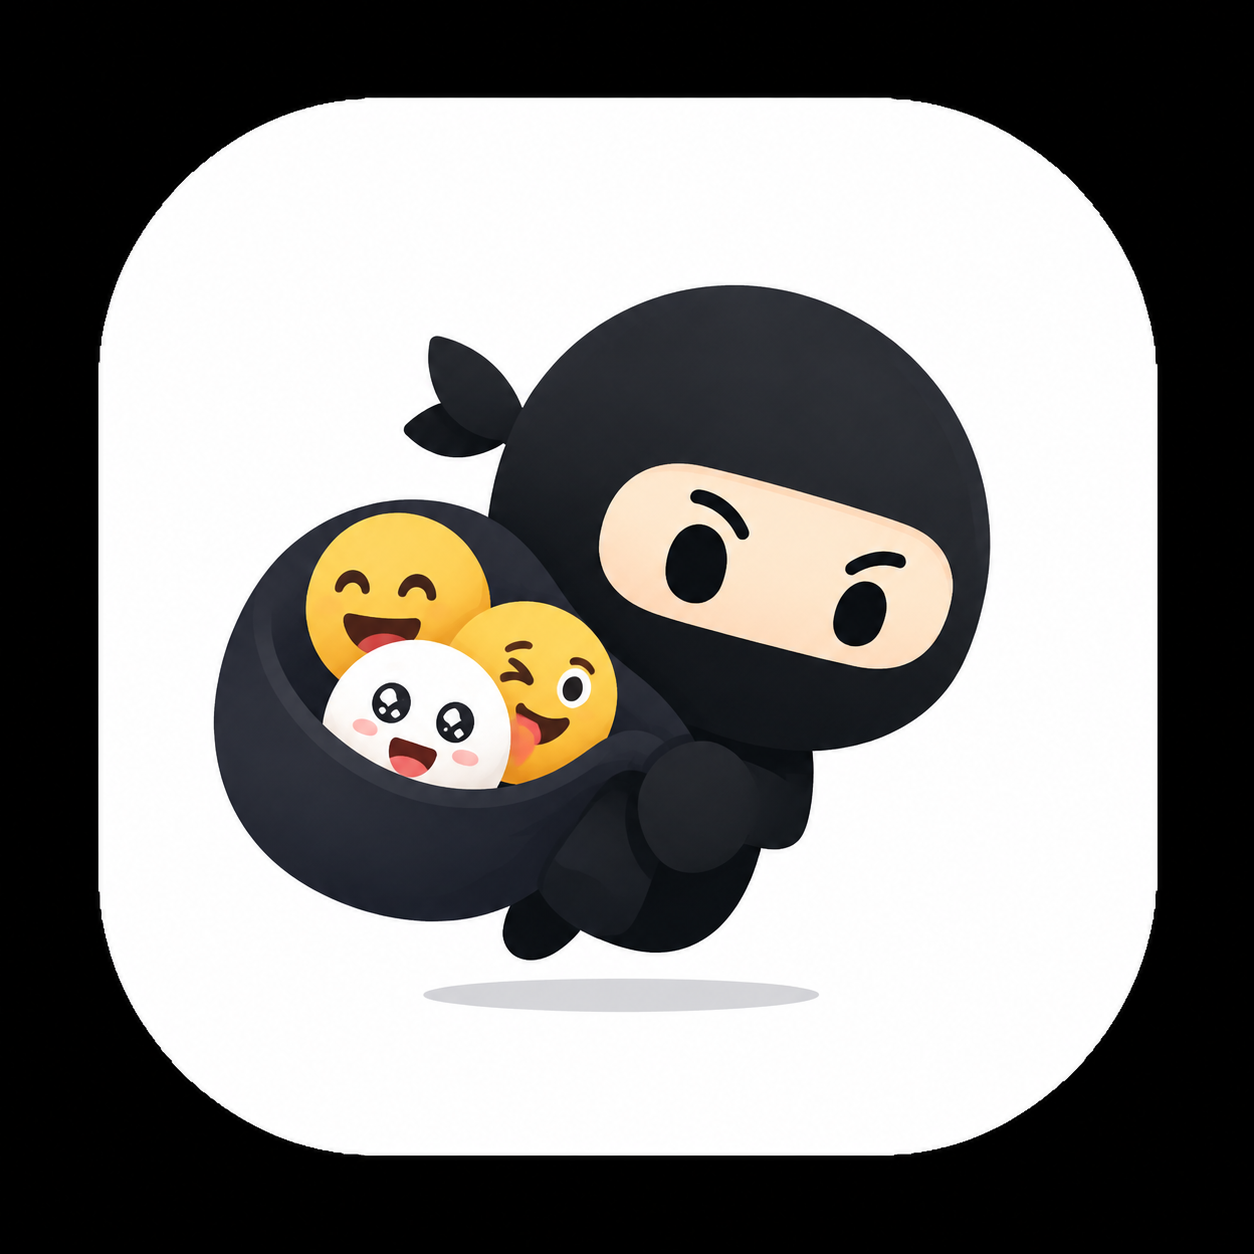
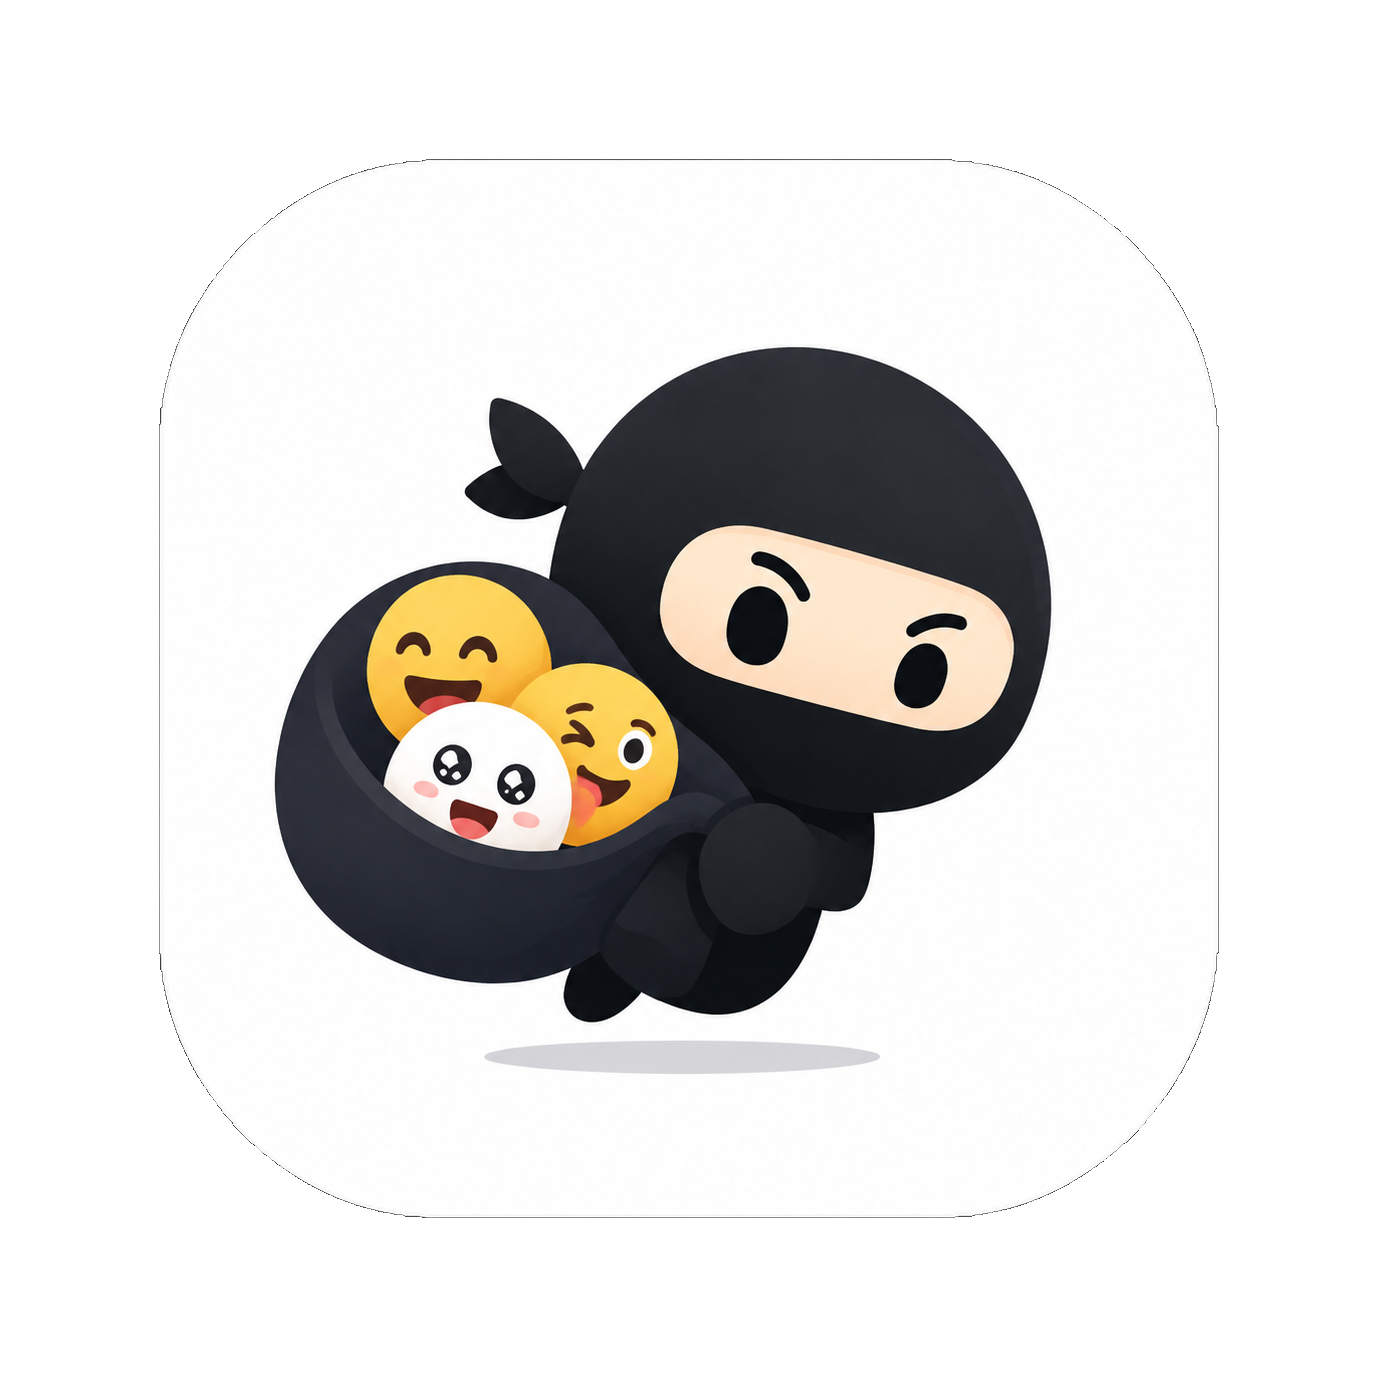
更新 README.md 中的项目名称为“表情大盗”，并替换图标文件

diff --git a/README.md b/README.md
@@ -1,7 +1,7 @@
 <div align=center>
 <img src="icon.png" width="150" height="150">
 
-<h1>MemeCapture</h1>
+<h1>表情大盗</h1>
 
 <p>
 <img src="https://img.shields.io/github/downloads/darkmatter2048/MemeCapture/total" alt="downloads" />
